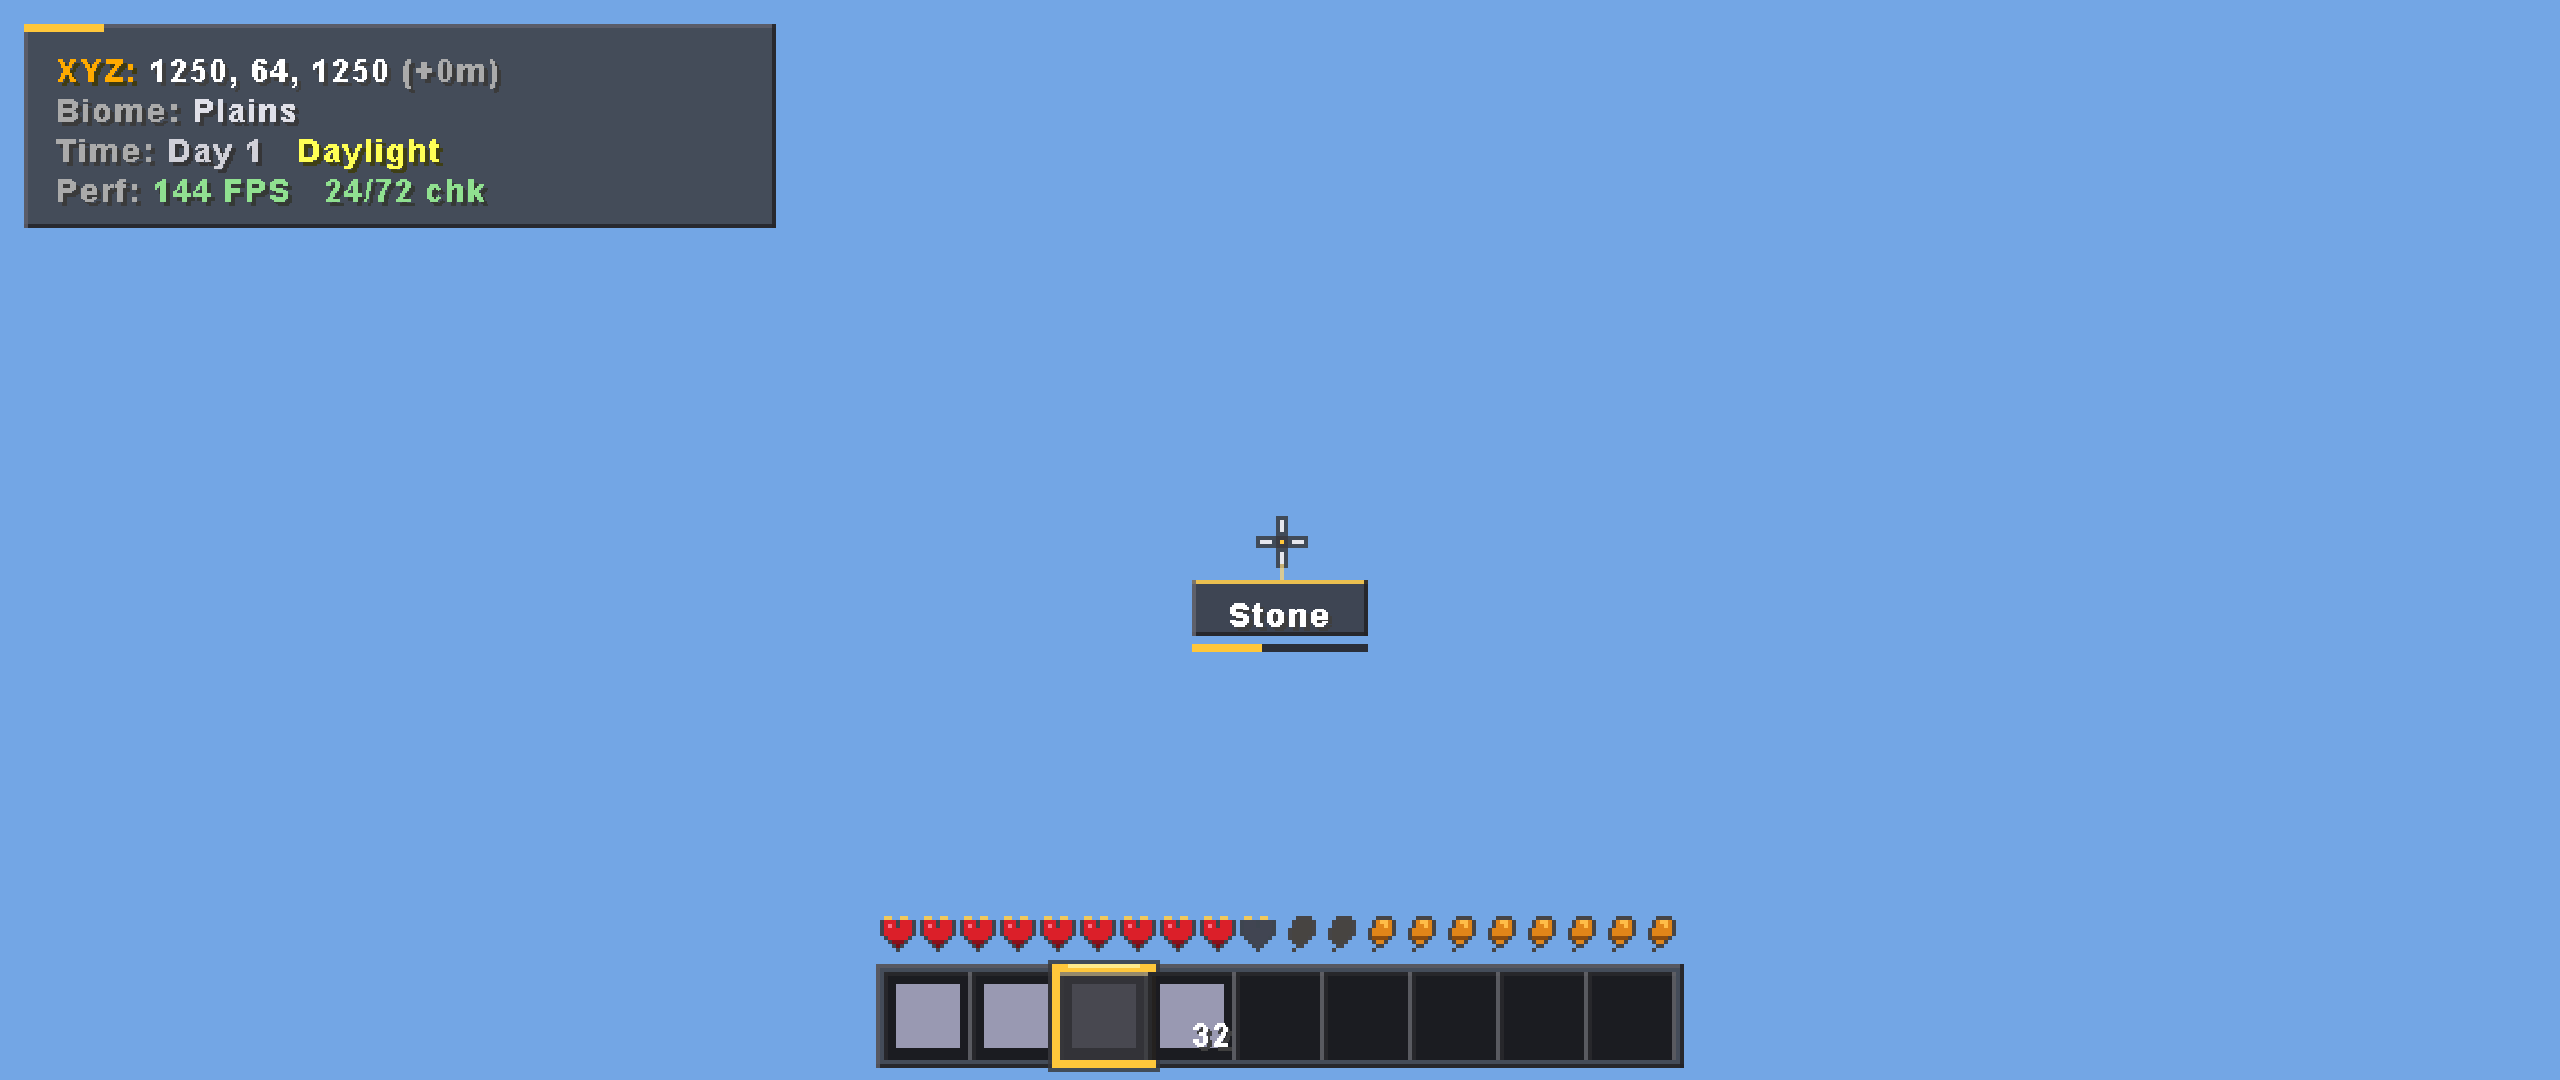
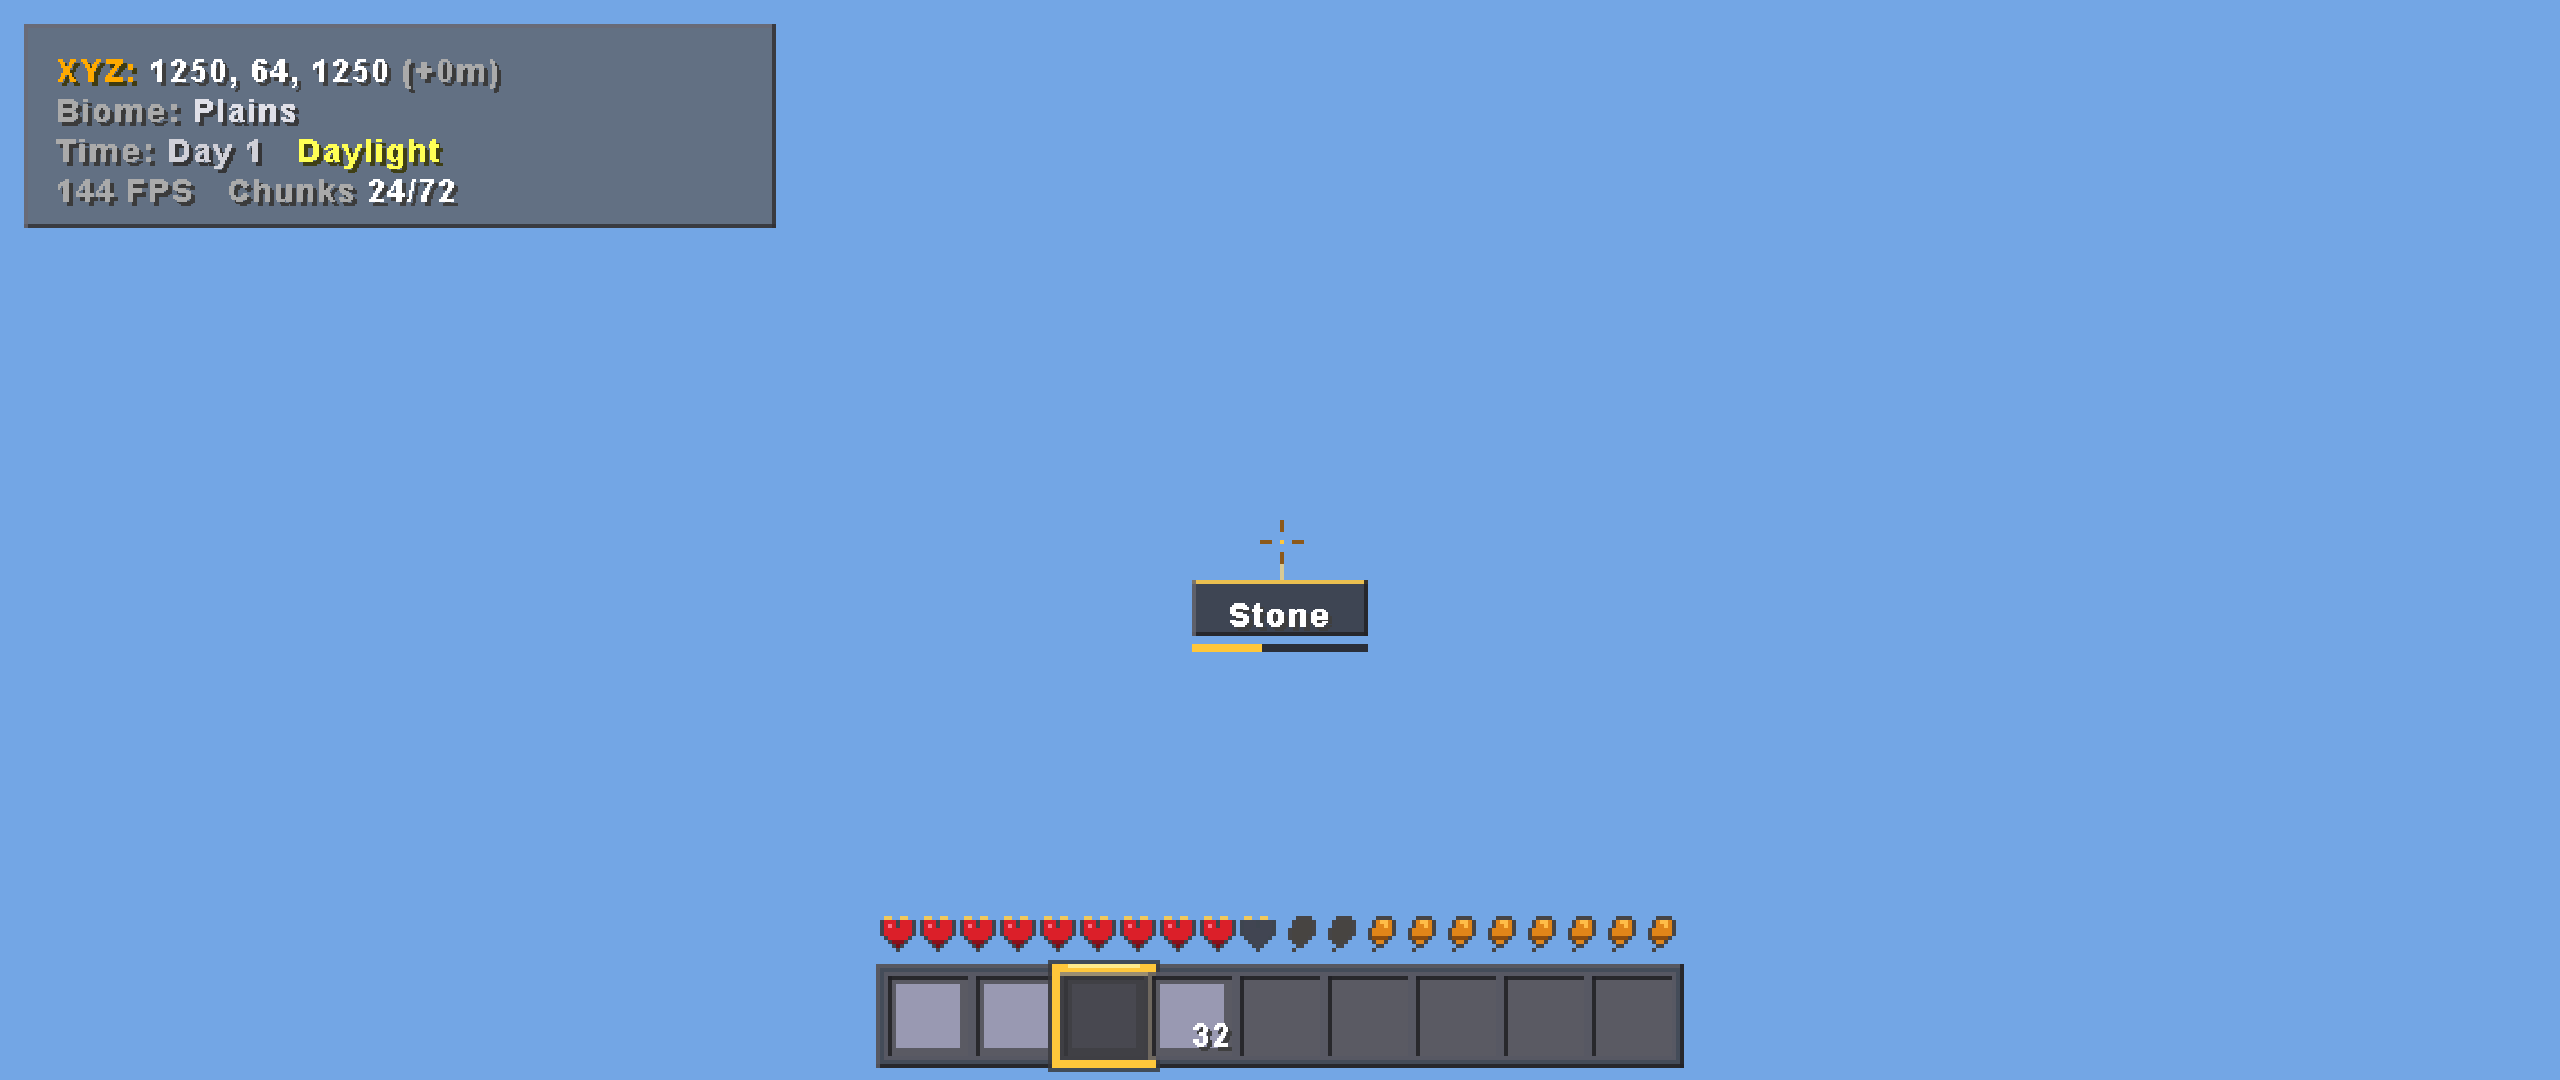
docs(gui): update HUD checklist with Stage 1 completion and refreshed screenshots

diff --git a/HUD_POLISH_CHECKLIST.md b/HUD_POLISH_CHECKLIST.md
@@ -1,0 +1,68 @@
+# Journal-MC — HUD Polish & Hardcore Feature Roadmap
+
+This document captures the HUD and survival UX feedback organized into three execution stages based on dependency order and visual impact.
+
+---
+
+## Stage 1: Immediate Visual Contrast & Controls (Now) — [COMPLETED]
+
+These items address direct readability issues, controls, and feedback without requiring changes to scaling or core survival mechanics.
+
+- [x] **1. Slot Contrast & Visibility**
+  - Lightened the slot cavity fill (`#161620` with 0.70 alpha) so dark blocks (stone, coal, dirt) pop clearly.
+  - Added a visible lighter border (`#3c3c4a`) and a 1px recessed inner drop shadow to give each slot clear definition on any background.
+- [x] **2. Crosshair Inverted / High-Contrast Blending**
+  - Implemented `GuiRenderer.setInvertedBlend(true)` using `glBlendFuncSeparate(GL_ONE_MINUS_DST_COLOR, GL_ONE_MINUS_SRC_COLOR, GL_ONE, GL_ZERO)` so the reticle inverts cleanly over bright sky, blinding snow, and deep caverns.
+  - Retained the luminous gold focal pip when targeting an interactable block.
+- [x] **3. Info Card Clarity & De-clutter**
+  - Updated chunk metric label to `"Chunks X/Y"`.
+  - Removed the unlabelled top accent notch.
+  - Lowered panel background opacity to 0.65 for a lighter, less intrusive presence.
+- [x] **4. Heart Container Hurt Flash**
+  - Added incandescent white damage flash (`1.0, 1.0, 1.0, 0.95`) across heart containers during `player.hurtTime > 0` for visceral combat feedback.
+- [x] **5. Utility Hotkeys (F1 & F2)**
+  - **F1:** Toggles HUD visibility (`showHud = !showHud`).
+  - **F2:** Captures high-resolution screenshot directly to `screenshots/` folder with an ephemeral on-screen confirmation toast (`ScreenshotHelper`).
+- [x] **6. Viewmodel Arm Geometry & Near-Plane Audit**
+  - Extended arm base geometry (`yTop = 0.18f`), recalibrated base anchors, and reduced world camera near clipping plane to `0.02f` to eliminate near-plane polygon slicing and the bottom-right tan triangle.
+- [x] **7. Window Title Bar Branding**
+  - Updated window title in `MCJournalApp` to `"Journal-MC: Native Hardcore Edition"`.
+
+---
+
+## Stage 2: Scaling, Sizing & Survival Mechanics (After Scale Phase)
+
+These items depend on the GUI scale manager and survival state expansions.
+
+- [ ] **1. HUD Scale Setting**
+  - Expose `GUI Scale: Auto / 1x / 2x / 3x / 4x` in Video Settings, matching player preference and standard desktop viewing distances.
+- [ ] **2. Hotbar Proportions & Item Sizing**
+  - Increase item sprite footprint inside the slot from ~68% to ~80% (18–19px inside 22px slot).
+  - Brighten tool sprites (axes, pickaxes) or give them a 1px light rim so they don't blend into the dark slot well.
+- [ ] **3. Hunger Sprite Redesign & Spacing**
+  - Redesign hunger icon with a sharp silhouette: ivory bone end, rich amber meat bulb, and bright highlight.
+  - Increase the horizontal spacing between the Health cluster and Hunger cluster to prevent them merging into a single strip.
+- [ ] **4. Item Name Switch Popup**
+  - Display the selected item name (e.g., `Iron Pickaxe`, `Oak Planks (32)`) above the hotbar for ~2.0 seconds when changing active slots, fading smoothly.
+- [ ] **5. Tool Durability Bars**
+  - Render colored durability bars (green → yellow → red) underneath damaged tools in hotbar slots.
+- [ ] **6. Air / Breath Bubbles**
+  - If drowning is enabled, render 10 popping air bubble sprites above the hunger row while submerged.
+
+---
+
+## Stage 3: Hardcore Atmosphere & Immersion (Final Polish)
+
+These features amplify tension and give the interface a unique Journal-MC identity.
+
+- [ ] **1. Low-Health Heartbeat & Pulsing Vignette**
+  - At $\le 2$ hearts ($\le 4$ HP), activate a slow rhythmic crimson edge pulsation and heartbeat audio/visual cadence.
+- [ ] **2. Journal "Days Survived" Feature**
+  - Give "Days Survived" a prominent, thematic placement on the HUD or Pause/Journal overlay.
+- [ ] **3. F3 Debug Modes (Cycling)**
+  - Cycle F3 through:
+    1. `Off`: Completely hidden (immersive default).
+    2. `Minimal`: FPS and memory only.
+    3. `Full`: Coordinates, Biome, Light, Chunks, and Facing direction.
+- [ ] **4. Title Bar Hardcore Indicators**
+  - Ensure title bar displays clean release versioning and hardcore status.
